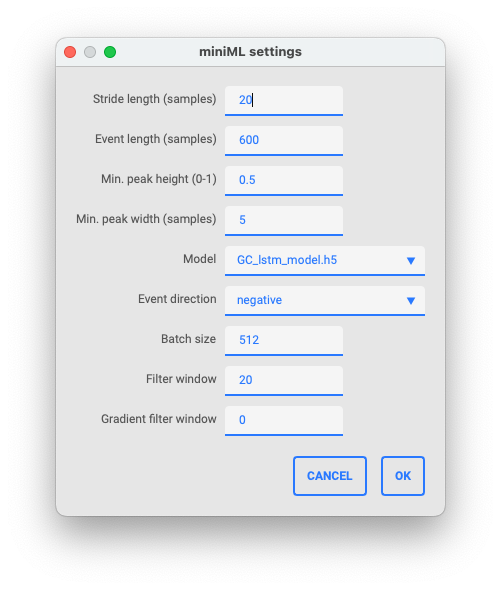
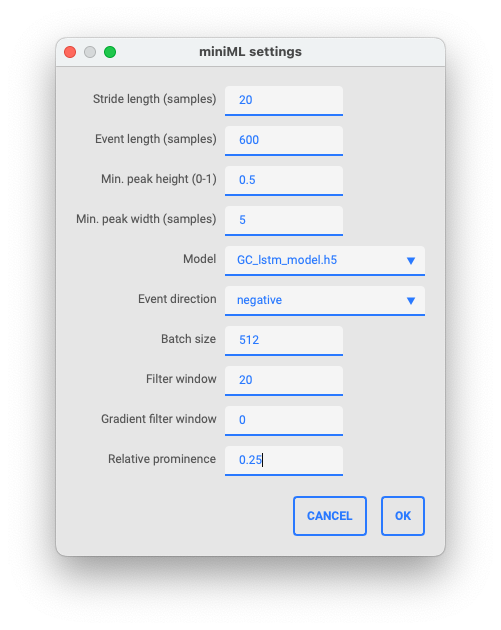
:sparkles: add relative_prominence_cutoff to GUI settings

diff --git a/core/miniML_gui.py b/core/miniML_gui.py
@@ -697,6 +697,7 @@ class minimlGuiMain(QMainWindow):
         self.settings.batch_size = int(settings_win.batchsize.text())
         self.settings.convolve_win = int(settings_win.convolve_window.text())
         self.settings.gradient_convolve_win = int(settings_win.gradient_convolve_window.text())
+        self.settings.relative_prominence = float(settings_win.relative_prominence.text())
 
 
     def run_analysis(self) -> None:
@@ -745,7 +746,8 @@ class minimlGuiMain(QMainWindow):
                                             callbacks=CustomCallback())
 
             self.detection.detect_events(stride=self.settings.stride, eval=True, peak_w=self.settings.minimum_peak_width, 
-                                         convolve_win=self.settings.convolve_win, gradient_convolve_win=self.settings.gradient_convolve_win)
+                                         convolve_win=self.settings.convolve_win, gradient_convolve_win=self.settings.gradient_convolve_win,
+                                         rel_prom_cutoff=self.settings.relative_prominence)
 
             self.was_analyzed = True
             pen = pg.mkPen(color=self.settings.colors[3], width=1)
@@ -1102,6 +1104,9 @@ class SettingsPanel(QDialog):
         self.gradient_convolve_window = QLineEdit(str(parent.settings.gradient_convolve_win))
         self.gradient_convolve_window.setValidator(QIntValidator(1, 10000))
 
+        self.relative_prominence = QLineEdit(str(parent.settings.relative_prominence))
+        self.relative_prominence.setValidator(validator)
+
         self.layout = QFormLayout(self)
         self.layout.addRow('Stride length (samples)', self.stride)
         self.layout.addRow('Event length (samples)', self.ev_len)
@@ -1112,6 +1117,7 @@ class SettingsPanel(QDialog):
         self.layout.addRow('Batch size', self.batchsize)
         self.layout.addRow('Filter window', self.convolve_window)
         self.layout.addRow('Gradient filter window', self.gradient_convolve_window)
+        self.layout.addRow('Relative prominence', self.relative_prominence)
 
         finalize_dialog_window(self, title='miniML settings')
 

diff --git a/core/miniML_settings.py b/core/miniML_settings.py
@@ -33,7 +33,8 @@ class MinimlSettings():
                  direction: str='negative',
                  batch_size: int=512,
                  convolve_win: int=20,
-                 gradient_convolve_win: int=0) -> None:
+                 gradient_convolve_win: int=0,
+                 relative_prominence: float=0.25) -> None:
 
         self.stride = stride
         self.event_window = event_length
@@ -45,6 +46,7 @@ class MinimlSettings():
         self.batch_size = batch_size
         self.convolve_win = convolve_win
         self.gradient_convolve_win = gradient_convolve_win
+        self.relative_prominence = relative_prominence
         self.colors = ["#ff595e", "#ffca3a", "#8ac926", "#1982c4", "#6a4c93"]
 
 
@@ -144,3 +146,15 @@ class MinimlSettings():
             raise ValueError('Convolution window must be an integer')
 
         self._gradient_convolve_win = value
+
+    @property
+    def relative_prominence(self) -> float:
+        return self._relative_prominence
+    
+    @relative_prominence.setter
+    def relative_prominence(self, value) -> None:
+        if value < 0 or value > 1:
+            raise ValueError('Relative prominence must be within (0,1)')
+
+        self._relative_prominence = value
+        
